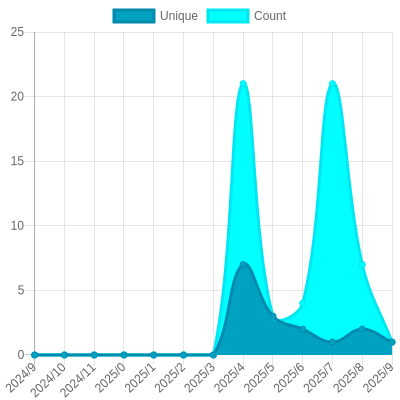
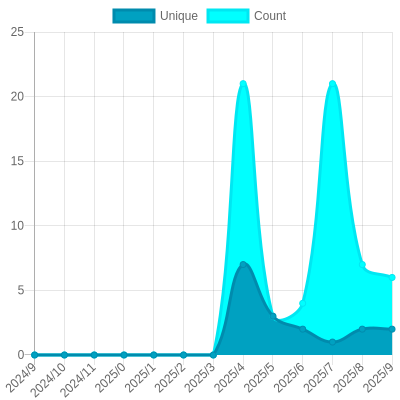
Update views

Changed region(s): [[0.87, 0.66, 0.99, 0.87], [0.87, 0.42, 0.9, 0.63], [0.84, 0.21, 0.87, 0.42]]

diff --git a/readme/794605585/year.md b/readme/794605585/year.md
@@ -23,10 +23,10 @@
 			<code>2024/10/1</code>
 		</td>
 		<td>
-			<code>1</code>
+			<code>2</code>
 		</td>
 		<td>
-			<code>1</code>
+			<code>6</code>
 		</td>
 	</tr>
 	<tr>
@@ -164,7 +164,7 @@
 </table>
 
 </details>
-<small><i>Last updated on 2024/10/17 1:19 AM UTC</i></small>
+<small><i>Last updated on 2024/10/17 6:25 AM UTC</i></small>
 
 ## ✂Copy and 📋 Paste
 ### SVG Badge

diff --git a/README.md b/README.md
@@ -53,7 +53,7 @@ The project created and maintained by [gayanvoice](https://github.com/gayanvoice
 	</tr>
 </table>
 
-<small><i>Last updated on 2024/10/17 1:19 AM UTC</i></small>
+<small><i>Last updated on 2024/10/17 6:25 AM UTC</i></small>
 
 ## ✂Copy and 📋 Paste
 ### Total Views Badge

diff --git a/readme/777208957/year.md b/readme/777208957/year.md
@@ -164,7 +164,7 @@
 </table>
 
 </details>
-<small><i>Last updated on 2024/10/17 1:19 AM UTC</i></small>
+<small><i>Last updated on 2024/10/17 6:24 AM UTC</i></small>
 
 ## ✂Copy and 📋 Paste
 ### SVG Badge
